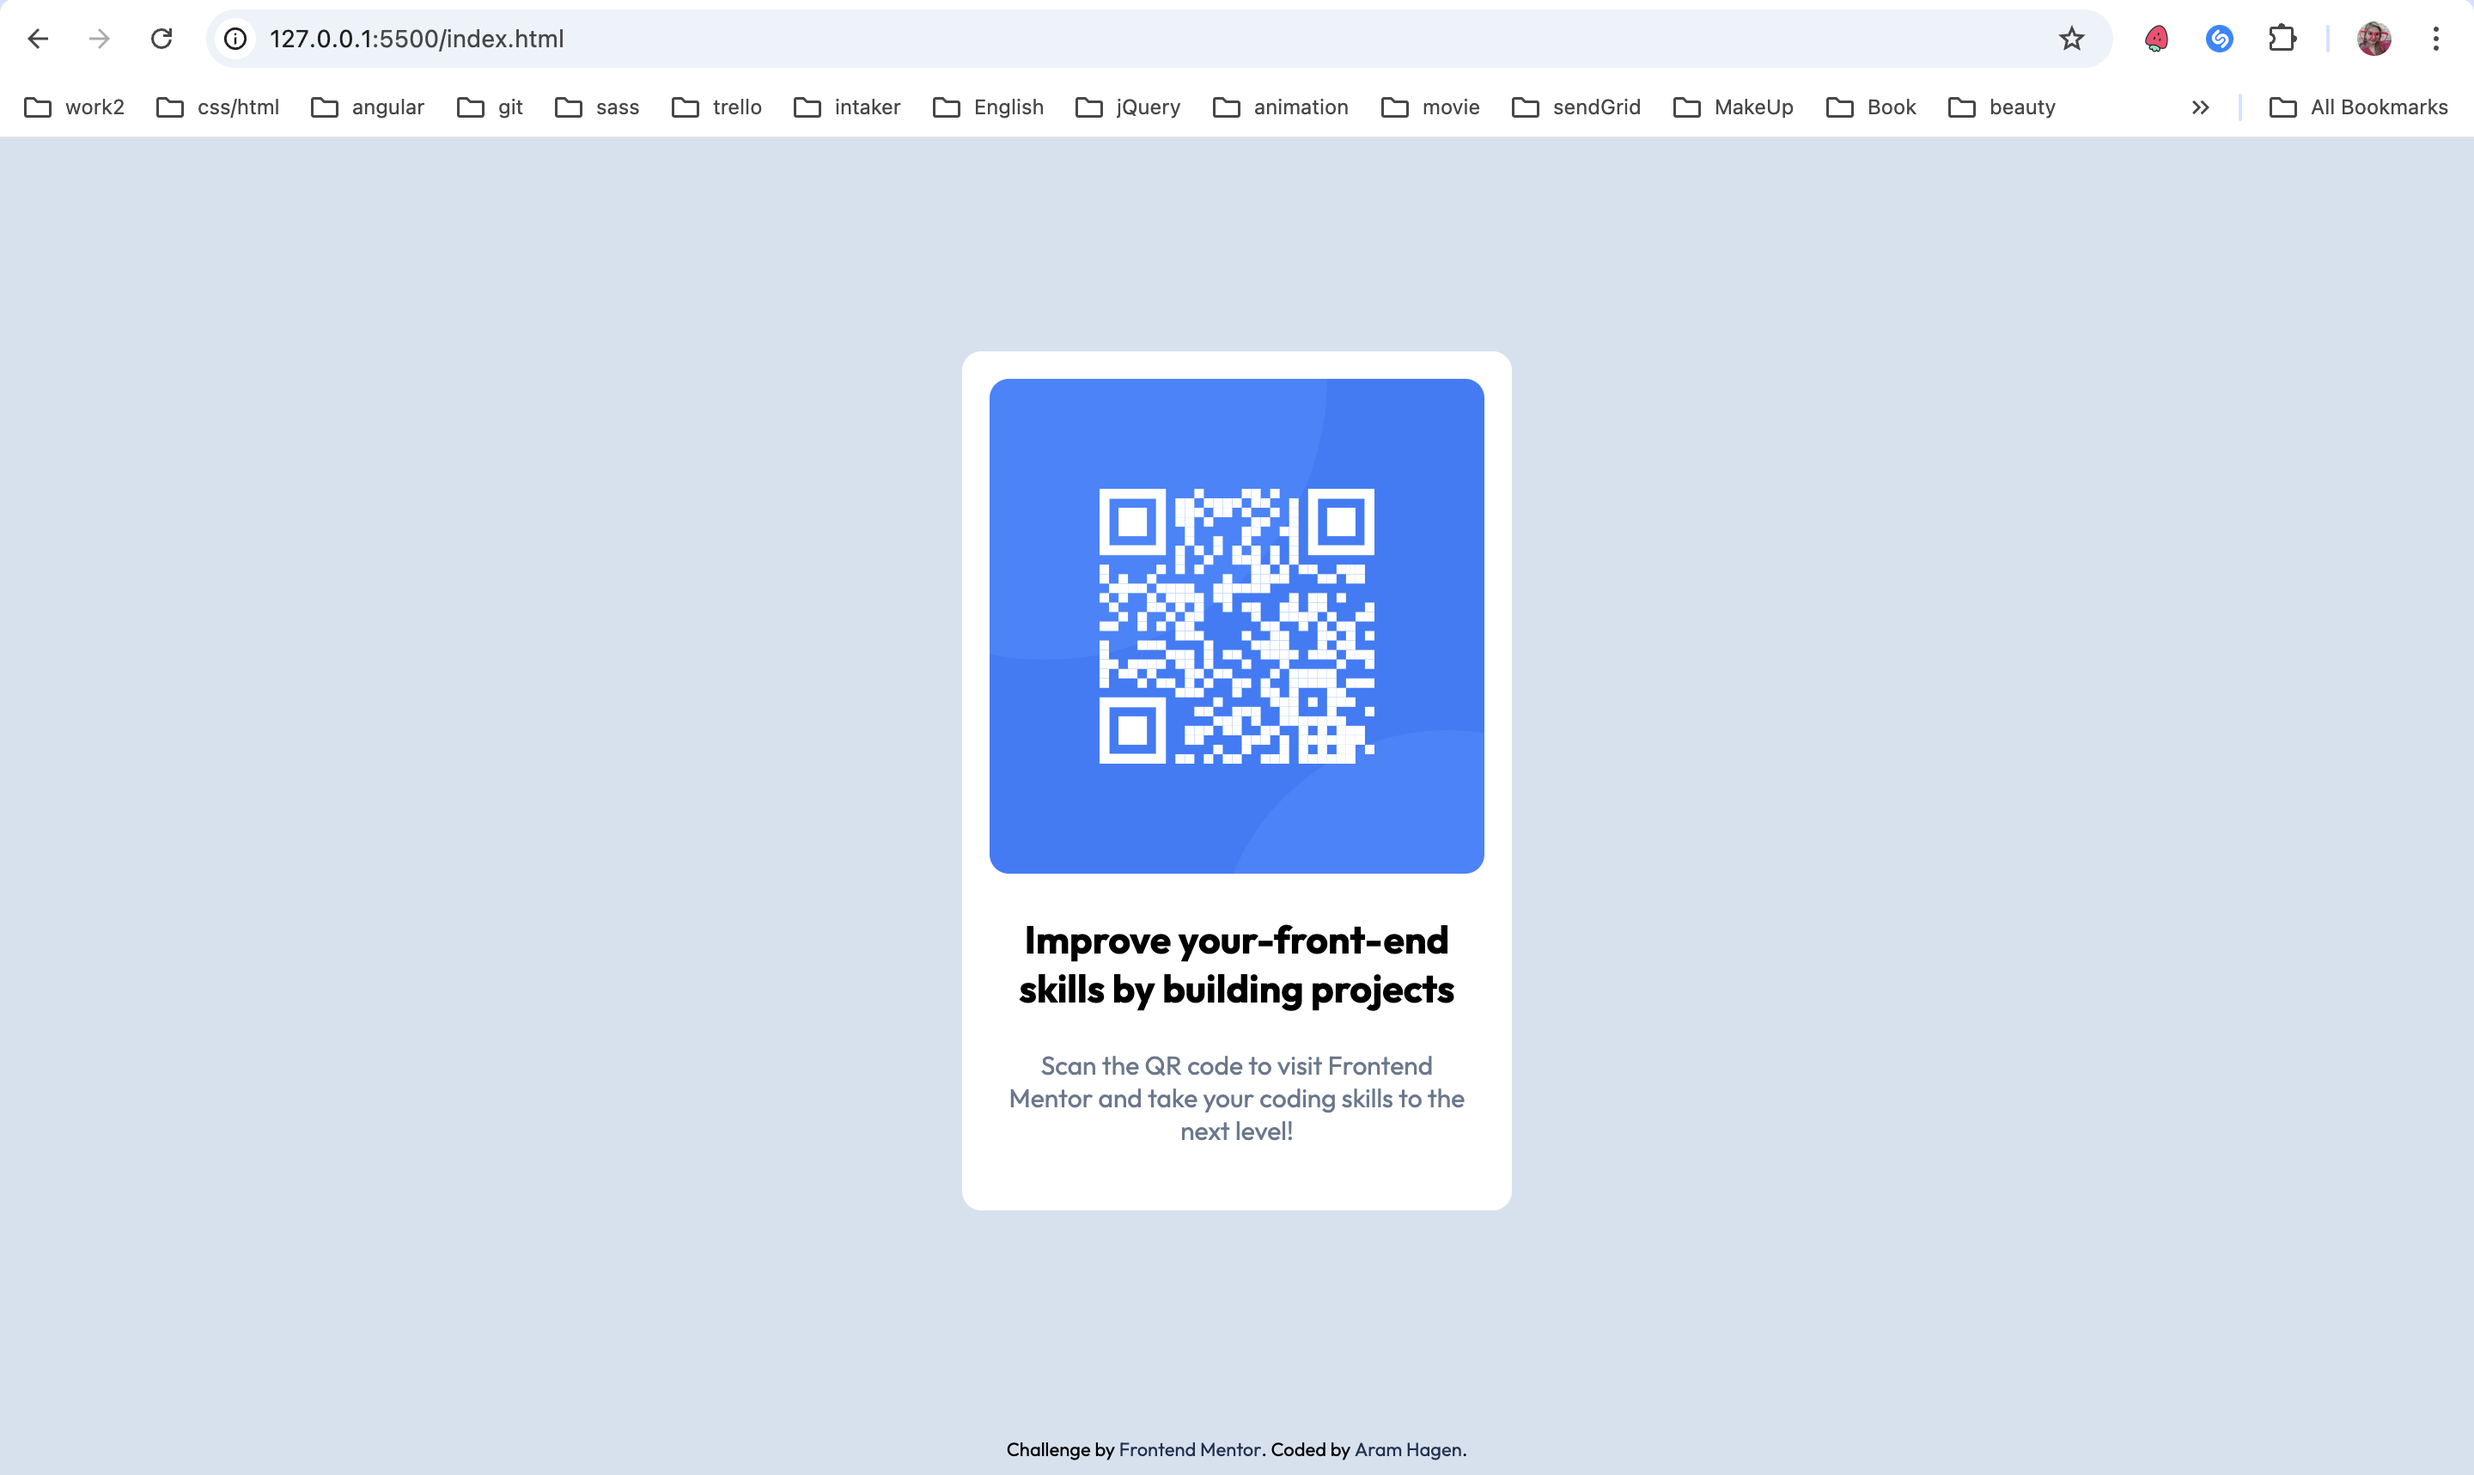
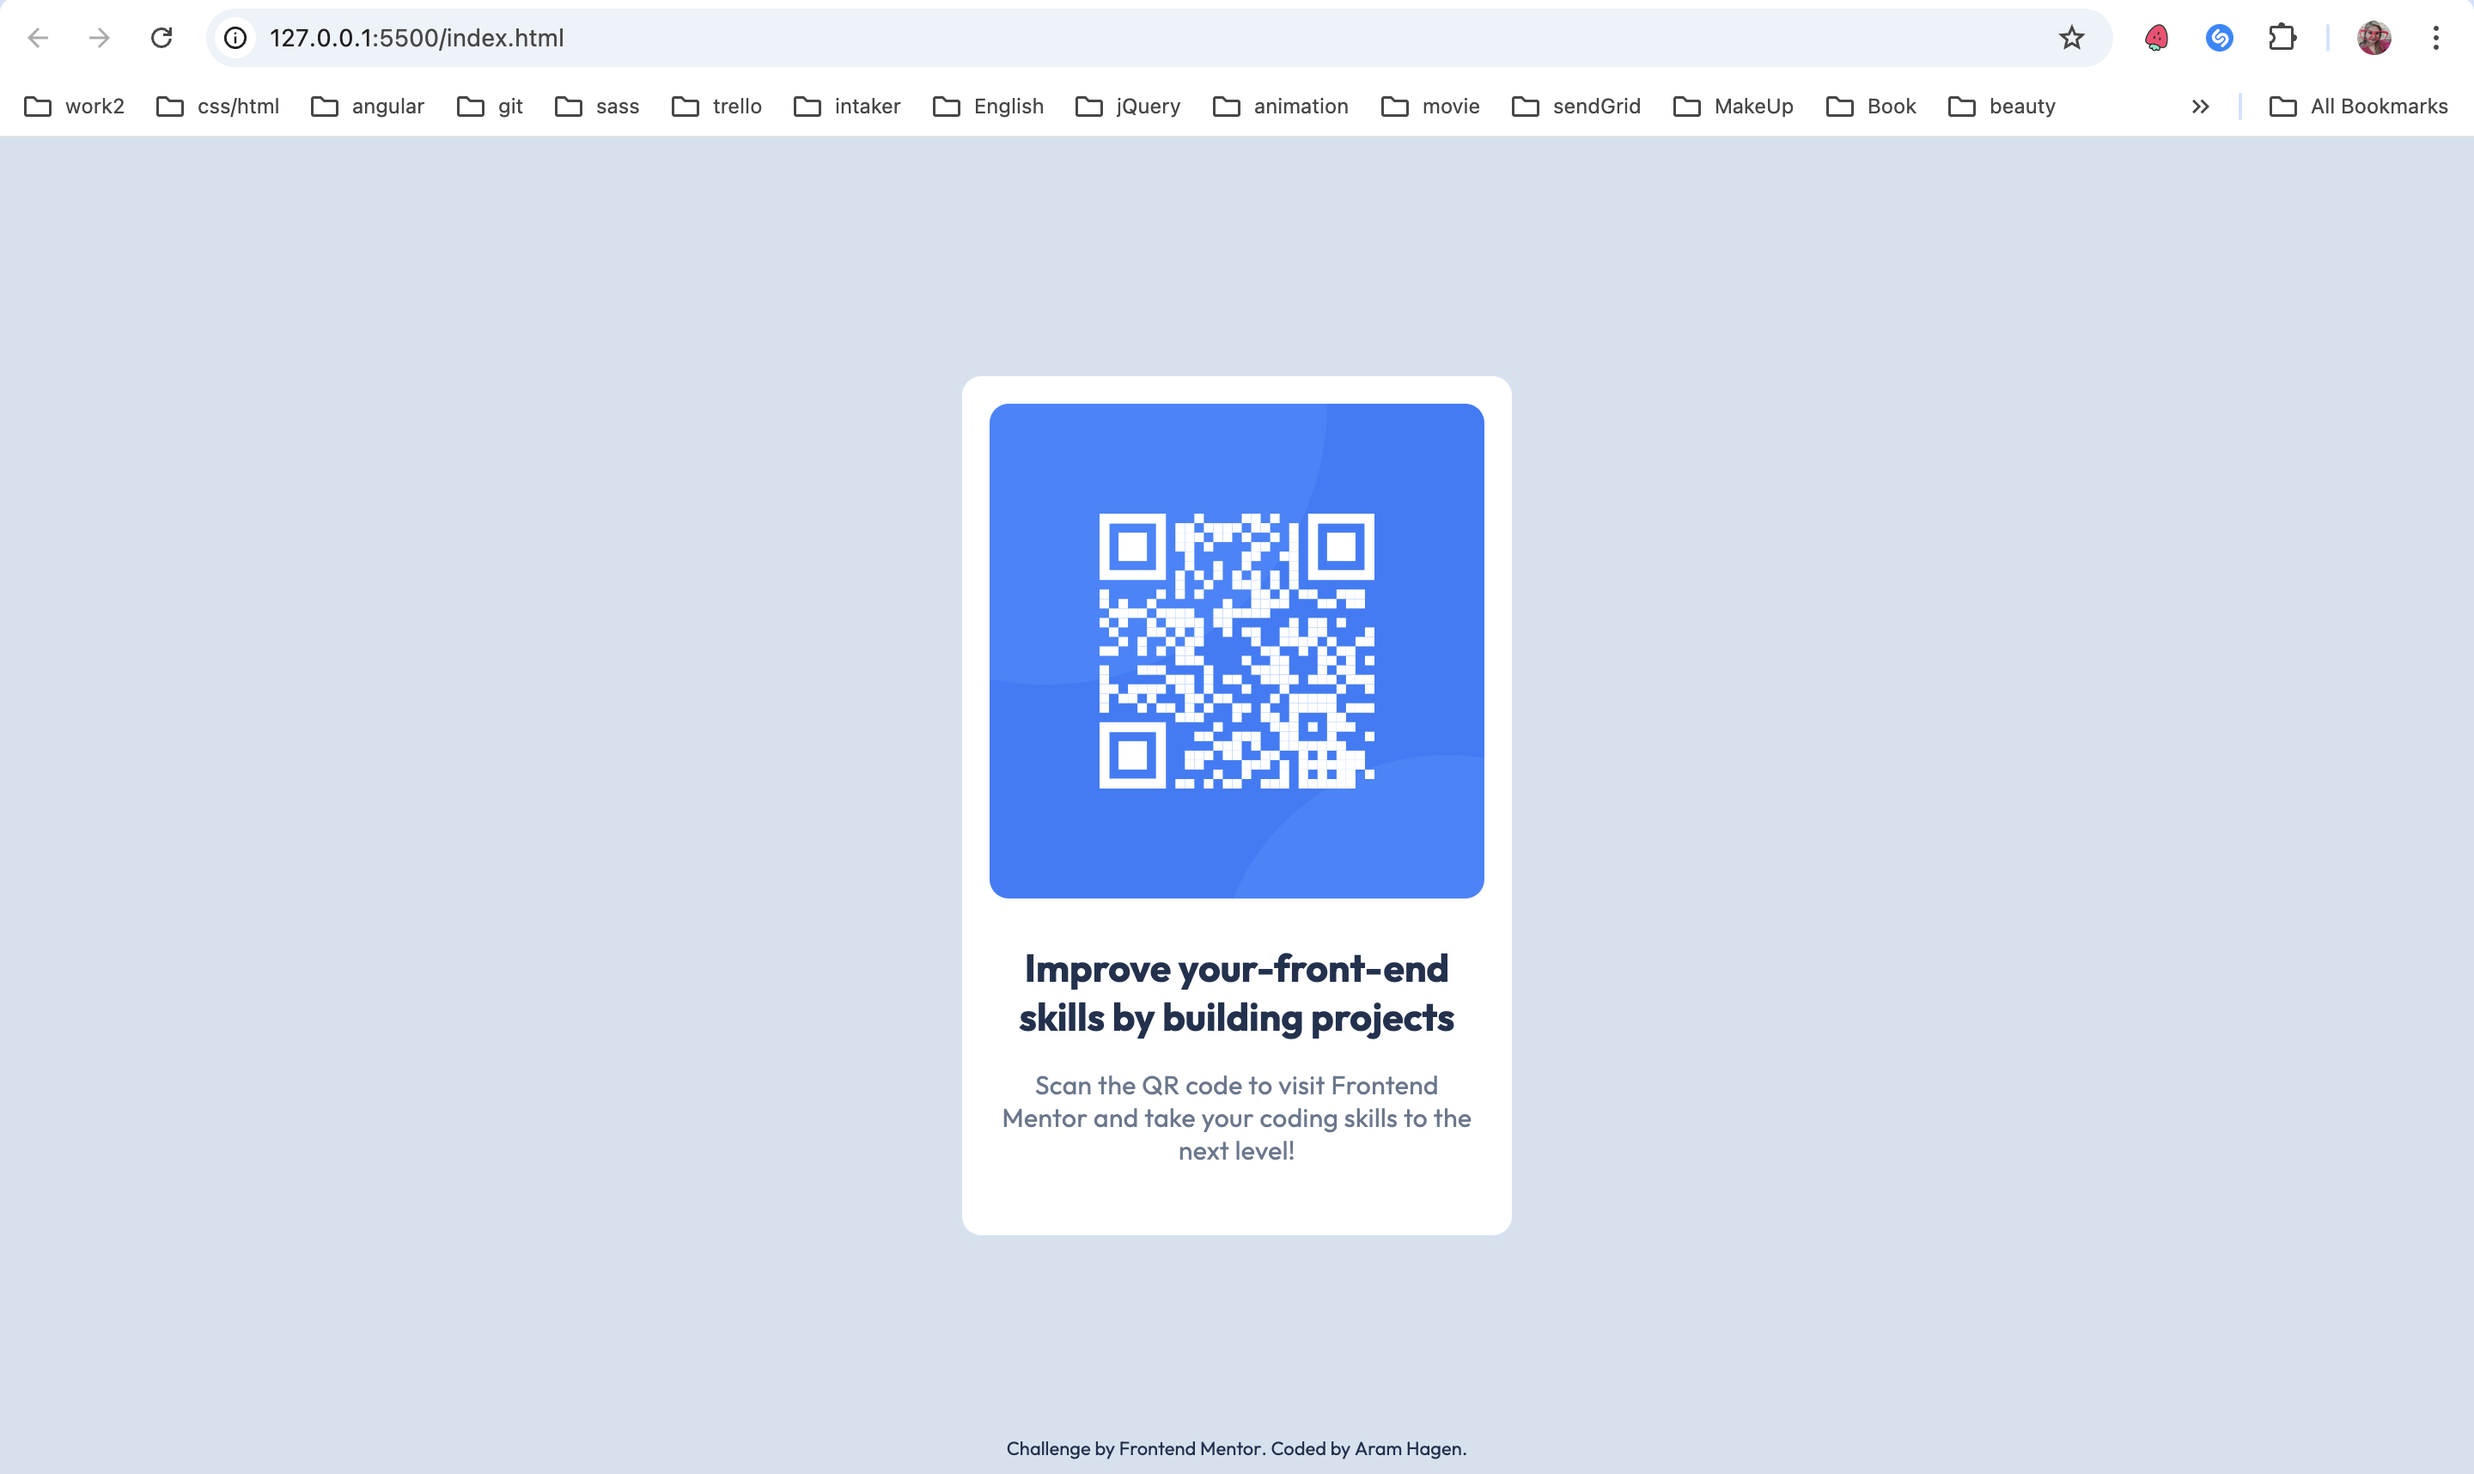
bugFix

diff --git a/dist/main.css b/dist/main.css
@@ -3,7 +3,7 @@
   --PattensBlue: #d5e1ef;
   --white: #ffffff;
   --SlateGrey: #68778d;
-  --CatalinaBlue: #1f3251;
+  --CatalinaBlue: #1F314F;
   --mobileSize: 375px;
   --desktopSize: 1440px;
   --light: 300;
@@ -98,22 +98,8 @@ a {
   cursor: pointer;
 }
 
-h1,
-h2,
-h3,
-h4,
-h5,
-h6 {
-  font-weight: var(--regular) !important;
-}
-
 ul {
   list-style: none;
-}
-
-blockquote,
-q {
-  quotes: none;
 }
 
 img {
@@ -158,21 +144,6 @@ time {
   display: inline;
 }
 
-input,
-textarea {
-  border: 0;
-  padding: 0;
-  margin: 0;
-  outline: 0;
-  font-family: var(--fontFamily) !important;
-}
-
-iframe {
-  border: 0;
-  margin: 0;
-  padding: 0;
-}
-
 a,
 span {
   display: inline-block;
@@ -200,11 +171,6 @@ ol {
   list-style: decimal;
 }
 
-p {
-  margin: 0;
-  padding: 5px 0px;
-}
-
 .t-center {
   text-align: center;
 }
@@ -215,9 +181,9 @@ body {
   background-color: var(--PattensBlue);
   font-size: 15px;
   margin: 0;
-  display: grid;
-  grid-template-rows: 1fr auto;
   height: 100vh;
+  display: grid;
+  color: var(--CatalinaBlue);
 }
 
 .qr-container {
@@ -230,7 +196,7 @@ body {
   background-color: var(--white);
   border-radius: 0.7rem;
   width: 90vw;
-  padding: 1rem 1rem 2rem;
+  padding: 1rem 1rem 2.5rem;
   max-width: 320px;
   box-sizing: border-box;
   text-align: center;
@@ -242,18 +208,22 @@ body {
 }
 .qr-box__title {
   font-size: 1.4rem;
-  padding: 1.5rem 0 1rem;
+  padding: 1.6rem 0 1rem;
   font-weight: bold !important;
 }
 .qr-box__description {
   color: var(--SlateGrey);
-  margin: 0 0.5rem;
+  letter-spacing: 0.2px;
 }
 
 .attribution {
   font-size: 11px;
   text-align: center;
   padding: 0.5rem 0;
+  position: fixed;
+  left: 0;
+  right: 0;
+  bottom: 0;
 }
 
 .attribution a {

diff --git a/styles/main.scss b/styles/main.scss
@@ -8,9 +8,9 @@ body {
   background-color: var(--PattensBlue);
   font-size: 15px;
   margin: 0;
-  display: grid;
-  grid-template-rows: 1fr auto;
   height: 100vh;
+  display: grid;
+  color: var(--CatalinaBlue);
 }
 .qr-container {
   display: grid;
@@ -21,7 +21,7 @@ body {
   background-color: var(--white);
   border-radius: 0.7rem;
   width: 90vw;
-  padding: 1rem 1rem 2rem;
+  padding: 1rem 1rem 2.5rem;
   max-width: 320px;
   box-sizing: border-box;
   text-align: center;
@@ -32,18 +32,22 @@ body {
   }
   &__title {
     font-size: 1.4rem;
-    padding: 1.5rem 0 1rem;
+    padding: 1.6rem 0 1rem;
     font-weight: bold !important;
   }
   &__description {
     color: var(--SlateGrey);
-    margin:0 .5rem
+    letter-spacing: .2px;
   }
 }
 .attribution {
   font-size: 11px;
   text-align: center;
   padding: 0.5rem 0;
+  position: fixed;
+  left: 0;
+  right: 0;
+  bottom: 0;
 }
 .attribution a {
   color: var(--CatalinaBlue);

diff --git a/styles/reset.scss b/styles/reset.scss
@@ -83,22 +83,8 @@ a {
   cursor: pointer;
 }
 
-h1,
-h2,
-h3,
-h4,
-h5,
-h6 {
-  font-weight: var(--regular) !important;
-}
-
 ul {
   list-style: none;
-}
-
-blockquote,
-q {
-  quotes: none;
 }
 
 img {
@@ -143,21 +129,6 @@ time {
   display: inline;
 }
 
-input,
-textarea {
-  border: 0;
-  padding: 0;
-  margin: 0;
-  outline: 0;
-  font-family: var(--fontFamily) !important;
-}
-
-iframe {
-  border: 0;
-  margin: 0;
-  padding: 0;
-}
-
 a,
 span {
   display: inline-block;
@@ -185,12 +156,6 @@ ol {
   list-style: decimal;
 }
 
-p {
-  margin: 0;
-  padding: 5px 0px;
-}
-
 .t-center {
   text-align: center;
 }
-

diff --git a/styles/variables.scss b/styles/variables.scss
@@ -3,7 +3,7 @@
   --PattensBlue: #d5e1ef;
   --white: #ffffff;
   --SlateGrey: #68778d;
-  --CatalinaBlue: #1f3251;
+  --CatalinaBlue: #1F314F;
 
   //breakpoints------------
   --mobileSize: 375px;
